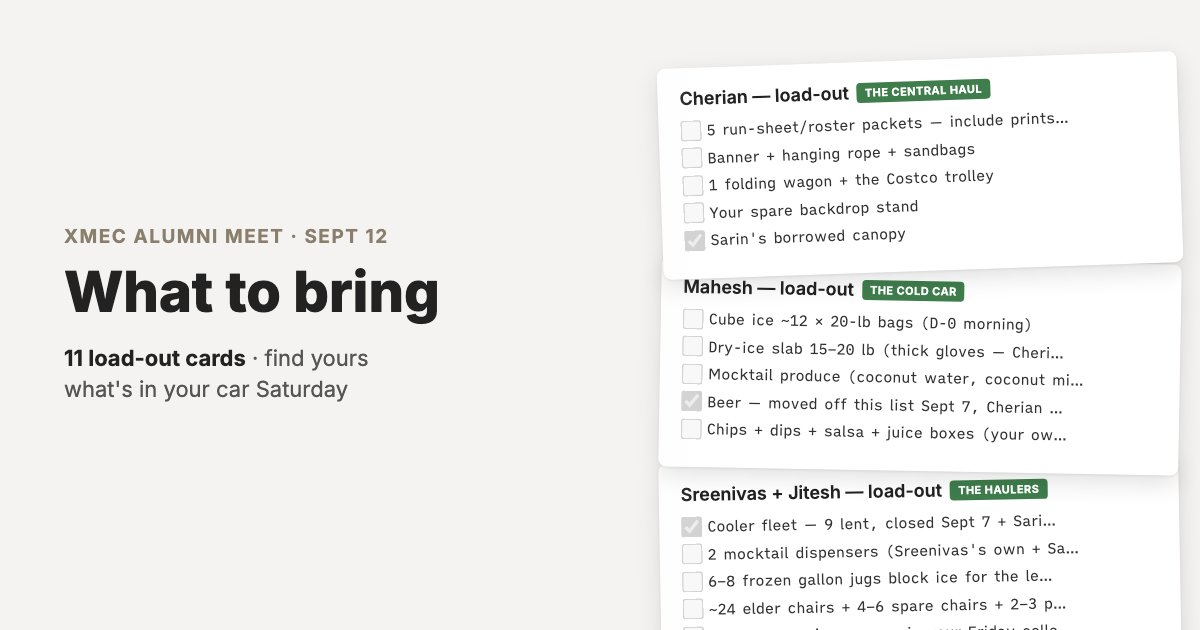
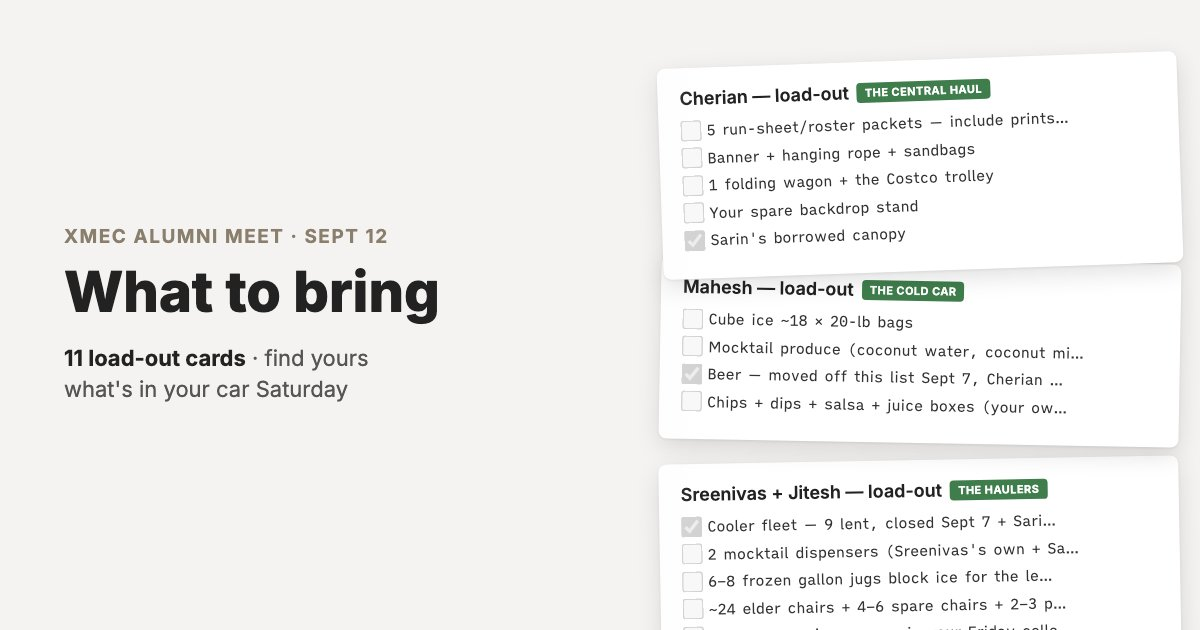
publish: index.html og.jpg roles.html og-roles.jpg (build d051e384be)

diff --git a/roles.html b/roles.html
@@ -2650,8 +2650,8 @@
 <header style="padding:2rem 1.25rem 0">
 <p class="small" style="text-transform:uppercase;letter-spacing:.06em;color:var(--stone-500,#8a7f6d)">xMEC Alumni Meet · Sept 12</p>
 <h1 style="margin:.25rem 0 .5rem">What to bring</h1>
-<p class="small">Boxes don't tick on this page — screenshot your card and tick on paper. Updated Thu, Sep 10, 7:47 PM.</p>
-<p class="small" style="opacity:.6">11 cards · build edd716f1bd</p>
+<p class="small">Boxes don't tick on this page — screenshot your card and tick on paper. Updated Thu, Sep 10, 9:19 PM.</p>
+<p class="small" style="opacity:.6">11 cards · build d051e384be</p>
 </header>
 <section id="loadout">
 <h2>What to bring — per-person load-out</h2>
@@ -2695,19 +2695,17 @@
         <button class="copy-img" type="button" aria-label="Copy image" title="Copy image"><svg viewBox="0 0 24 24" fill="none" stroke="currentColor" stroke-width="1.8" aria-hidden="true"><rect x="4" y="4" width="14" height="14" rx="2"/><path d="M8 20h12a2 2 0 0 0 2-2V8"/></svg></button>
         <h4>Mahesh — load-out <span class="badge nice">the cold car</span></h4>
         <p class="small"><strong>Arrive</strong> 8:30 ice run → on-site ~9:30 · unload at the drinks / cold-chain station.</p>
-        <p class="small"><strong>⚠ No backup if forgotten:</strong> the dry-ice slab (can't be bought early — no slab, no ice cream or cold hold) and the cube ice.</p>
+        <p class="small"><strong>⚠ No backup if forgotten:</strong> the cube ice — no ice, no cold hold for the ice-cream coolers or the drinks.</p>
         <p class="small"><strong>In your car — Saturday:</strong></p>
         <ul class="checklist">
-            <li><label><input tabindex="-1" onclick="return false" type="checkbox"> Cube ice ~12 × 20-lb bags (D-0 morning)</label></li>
-            <li><label><input tabindex="-1" onclick="return false" type="checkbox"> Dry-ice slab 15–20 lb (thick gloves — Cherian's own pair; trunk, windows open)</label></li>
+            <li><label><input tabindex="-1" onclick="return false" type="checkbox"> Cube ice ~18 × 20-lb bags</label></li>
             <li><label><input tabindex="-1" onclick="return false" type="checkbox"> Mocktail produce (coconut water, coconut milk, pineapple, citrus + mint garnish) + containers</label></li>
             <li><label><input tabindex="-1" onclick="return false" type="checkbox" checked disabled> Beer — moved off this list Sept 7, Cherian bought + stored 168 cans Sept 8</label></li>
             <li><label><input tabindex="-1" onclick="return false" type="checkbox"> Chips + dips + salsa + juice boxes (your own buy, Aug 22)</label></li>
-            <li><label><input tabindex="-1" onclick="return false" type="checkbox"> Dry-ice safety kit: thick gloves (Cherian's own pair, $0) · cardboard layer · "DRY ICE — ADULTS ONLY" label · serving tongs + tray</label></li>
         </ul>
         <p class="small"><strong>Friday pack night:</strong> collects Sreenivas's cooler + dispenser and Kevin's cooler. <strong>Ice cream is off Mahesh's pack night entirely Sept 7 — Jitesh buys it same-day.</strong> Test the 2 borrowed dispensers for leaks.</p>
         <p class="small"><strong>Not yours:</strong> the cooler fleet + dispensers (Sreenivas + Jitesh haul — you only count them).</p>
-        <p class="small"><strong>Backup:</strong> Sreenivas · <strong>Night before:</strong> confirm the dry-ice store + fallback, and the ⚠ items.</p>
+        <p class="small"><strong>Backup:</strong> Sreenivas · <strong>Night before:</strong> confirm the cube-ice store + fallback, and the ⚠ items.</p>
     </div>
 </div>
 
@@ -2766,7 +2764,7 @@
         <ul class="checklist">
             <li><label><input tabindex="-1" onclick="return false" type="checkbox"> Order Domino's (~10 cheese) for Sat ~12:00 pickup (D-1) — you collect it yourself between sessions, no runner</label></li>
         </ul>
-        <p class="small"><strong>Not yours:</strong> serveware (Cherian's car); cube ice + dry-ice kit (Mahesh's cold chain now); chips/dips/salsa/juice (Mahesh).</p>
+        <p class="small"><strong>Not yours:</strong> serveware (Cherian's car); cube ice (Mahesh's cold chain now); chips/dips/salsa/juice (Mahesh).</p>
         <p class="small"><strong>Backup:</strong> none — Kevin covers food solo · <strong>Night before:</strong> confirm the Domino's order (Kevin picks it up himself, no runner to name).</p>
     </div>
 </div>

diff --git a/index.html b/index.html
@@ -2754,7 +2754,7 @@
   <header>
     <h1>What we bought</h1>
     <p class="intro">Look at this and tell us what we forgot.</p>
-    <p class="stat-dateline"><span><b>59</b> items</span> <span><b>$1162.21</b> total</span> <span>needs at <b>161</b> heads</span> <span>generated <b>2026-09-11</b></span> <span>commit <b>098501a</b></span></p>
+    <p class="stat-dateline"><span><b>59</b> items</span> <span><b>$1162.21</b> total</span> <span>needs at <b>161</b> heads</span> <span>generated <b>2026-09-11</b></span> <span>commit <b>098501a+dirty</b></span></p>
   </header>
 
   <section>
@@ -2780,11 +2780,15 @@
       <tbody>
         <tr>
           <td><strong>Cherian</strong></td>
-          <td><ul><li class="fix-critical">Shift roster still unfilled — kids&#39;-zone pairs, 2:30–3:15 cover, drinks pairs, 2 backups, 2–3 starter servers, the 8-person teardown crew, the ice-cream freezer host, 6–8 freezer-jug volunteers — today</li><li>Dry ice — confirm stock and a fallback store; leak-test the 2 borrowed dispensers — D-1</li><li>Start the 2 unblocked Amazon returns (Clorox 75-ct, flushable 126-ct) — D-1</li><li>Walk-in / cash-payer log at check-in — unregistered payers have no sheet rows — D-1</li></ul></td>
+          <td><ul><li class="fix-critical">Shift roster still unfilled — kids&#39;-zone pairs, 2:30–3:15 cover, drinks pairs, 2 backups, 2–3 starter servers, the 8-person teardown crew, 6–8 freezer-jug volunteers — today</li><li>Start the 2 unblocked Amazon returns (Clorox 75-ct, flushable 126-ct) — D-1</li><li>Walk-in / cash-payer log at check-in — unregistered payers have no sheet rows — D-1</li></ul></td>
         </tr>
         <tr>
           <td><strong>Kevin</strong></td>
           <td><ul><li class="fix-critical">Chai vessel and tea/milk/masala quantity — neither is sourced; the two 5-gal dispensers are on mocktails until 4:00 — D-2</li><li>Write a caterer hard-failure fallback — only a lateness plan exists today — D-2</li><li>Confirm with Calicut Methods on tonight&#39;s call: the negotiated $2,700 package (8.5+1.5 biryani, 3 fry, 1 pakoda, chai/pazham pori ×170) and the $2,200 cash balance for Friday — D-2</li></ul></td>
+        </tr>
+        <tr>
+          <td><strong>Mahesh</strong></td>
+          <td><ul><li>Leak-test the 2 borrowed mocktail dispensers — D-1</li></ul></td>
         </tr>
         <tr>
           <td><strong>Cherian / Swathi</strong></td>
